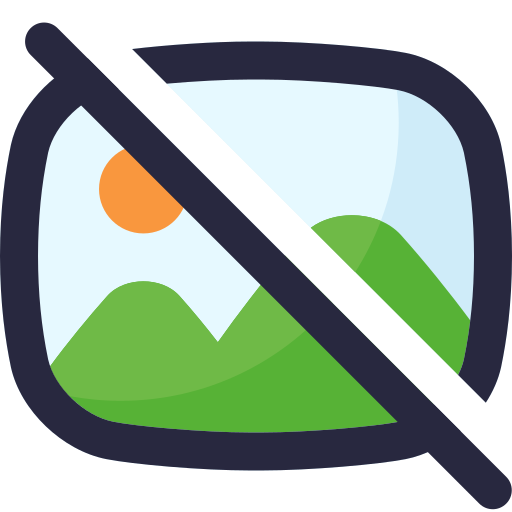
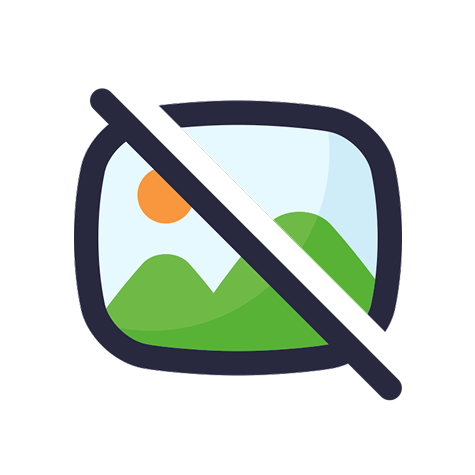
change no_image.png and add animation to stats

diff --git a/assets/js/ui.js b/assets/js/ui.js
@@ -131,18 +131,26 @@ export function renderDetails(pokemon, evolutionData) {
                     ${pokemon.stats
 											.map(
 												s => `
-                        <div class="text-xs font-bold uppercase">${s.stat.name}: ${s.base_stat}</div>
+                        <div class="text-xs font-bold uppercase">
+                            ${s.stat.name}: ${s.base_stat}
+                        </div>
                         <div class="w-full bg-gray-200 rounded-full h-2">
-                            <div class="${bgColor} h-2 rounded-full" style="width: ${Math.min((s.base_stat / 150) * 100, 100)}%"></div>
+                            <div 
+                                class="stat-bar ${bgColor} h-2 rounded-full transition-all duration-700"
+                                style="width: 0"
+                                data-width="${Math.min((s.base_stat / 150) * 100, 100)}%"
+                            ></div>
                         </div>
                     `,
 											)
 											.join('')}
                 </div>
+
 				<div class="mt-6 text-sm">
                     <h4 class="font-bold mb-1 uppercase text-gray-500 text-xs">Abilities</h4>
                     <p class="capitalize">${pokemon.abilities.map(a => a.ability.name).join(', ')}</p>
                 </div>
+
                 <div class="mt-6 p-3 bg-gray-50 rounded-lg">
                     <h4 class="font-bold text-xs uppercase text-gray-400 mb-1">Evolution Path</h4>
                     <p class="capitalize font-medium text-sm">${evoChain}</p>
@@ -150,4 +158,14 @@ export function renderDetails(pokemon, evolutionData) {
             </div>
         </div>
     `;
+}
+
+export function animateStats() {
+	setTimeout(() => {
+		document.querySelectorAll('.stat-bar').forEach((el, i) => {
+			setTimeout(() => {
+				el.style.width = el.dataset.width;
+			}, i * 100); // stagger ефект (по черзі)
+		});
+	}, 50);
 }

diff --git a/assets/js/main.js b/assets/js/main.js
@@ -148,6 +148,7 @@ gallery.addEventListener('click', async e => {
 		pokemon,
 		evolutionData,
 	);
+	ui.animateStats();
 });
 
 const closeModal = () => {